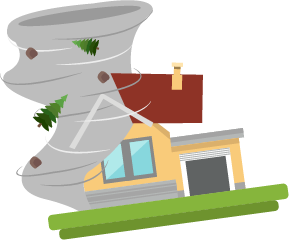
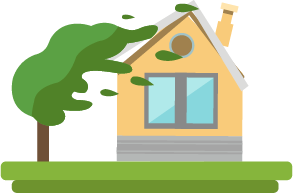
tidy up hazards

diff --git a/index.html b/index.html
@@ -62,7 +62,7 @@
     </object>
     -->
     <div class='overlay'>
-        <svg id="phoenix"></svg>
+        <svg id="phoenix" crossorigin="anonymous"></svg>
     </div>
     <canvas id="phoenix-canvas"  width="800" height="800"></canvas>
     <canvas id="drawables-canvas" width="800" height="800"></canvas>
@@ -91,7 +91,10 @@
                                              phoenixColour, phoenixColour);
         window.phoenix.draw(true);
         // wait for intro to finish, or intro can trigger this..
-        setTimeout(() => window.game.isInitialised = window.game.init(window.phoenix), 10000);
+        setTimeout(() => {
+            window.game.isInitialised = window.game.init(window.phoenix);
+        }
+            , 10000);
     })();
 </script>
 </body>

diff --git a/js/image-loader.js b/js/image-loader.js
@@ -3,7 +3,7 @@ class ImageLoader{
 		this.isLoaded = false;
 	}
     loadAssets(){
-		let numberOfHazards = 9;
+		let numberOfHazards = 6;
 		let numberOfCoins = 6;
 		this.coins = [];
 		this.hazards = [];
